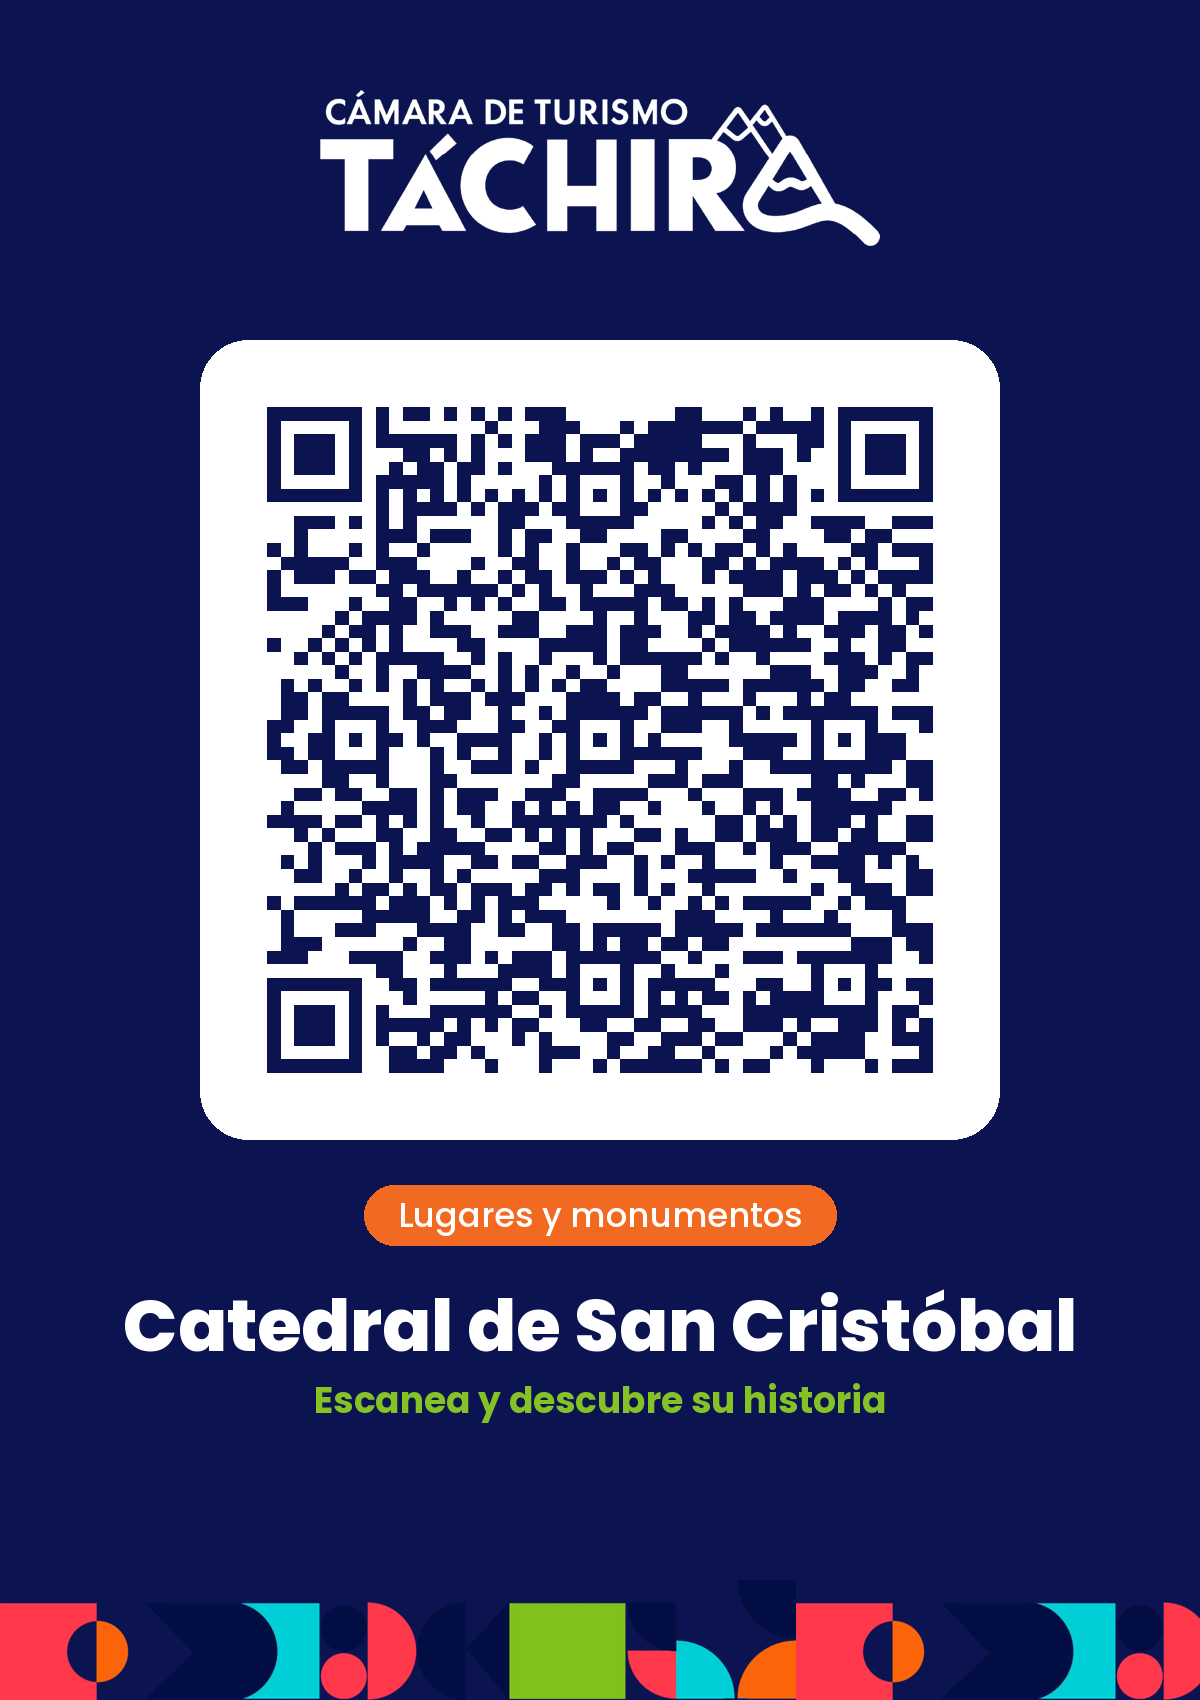
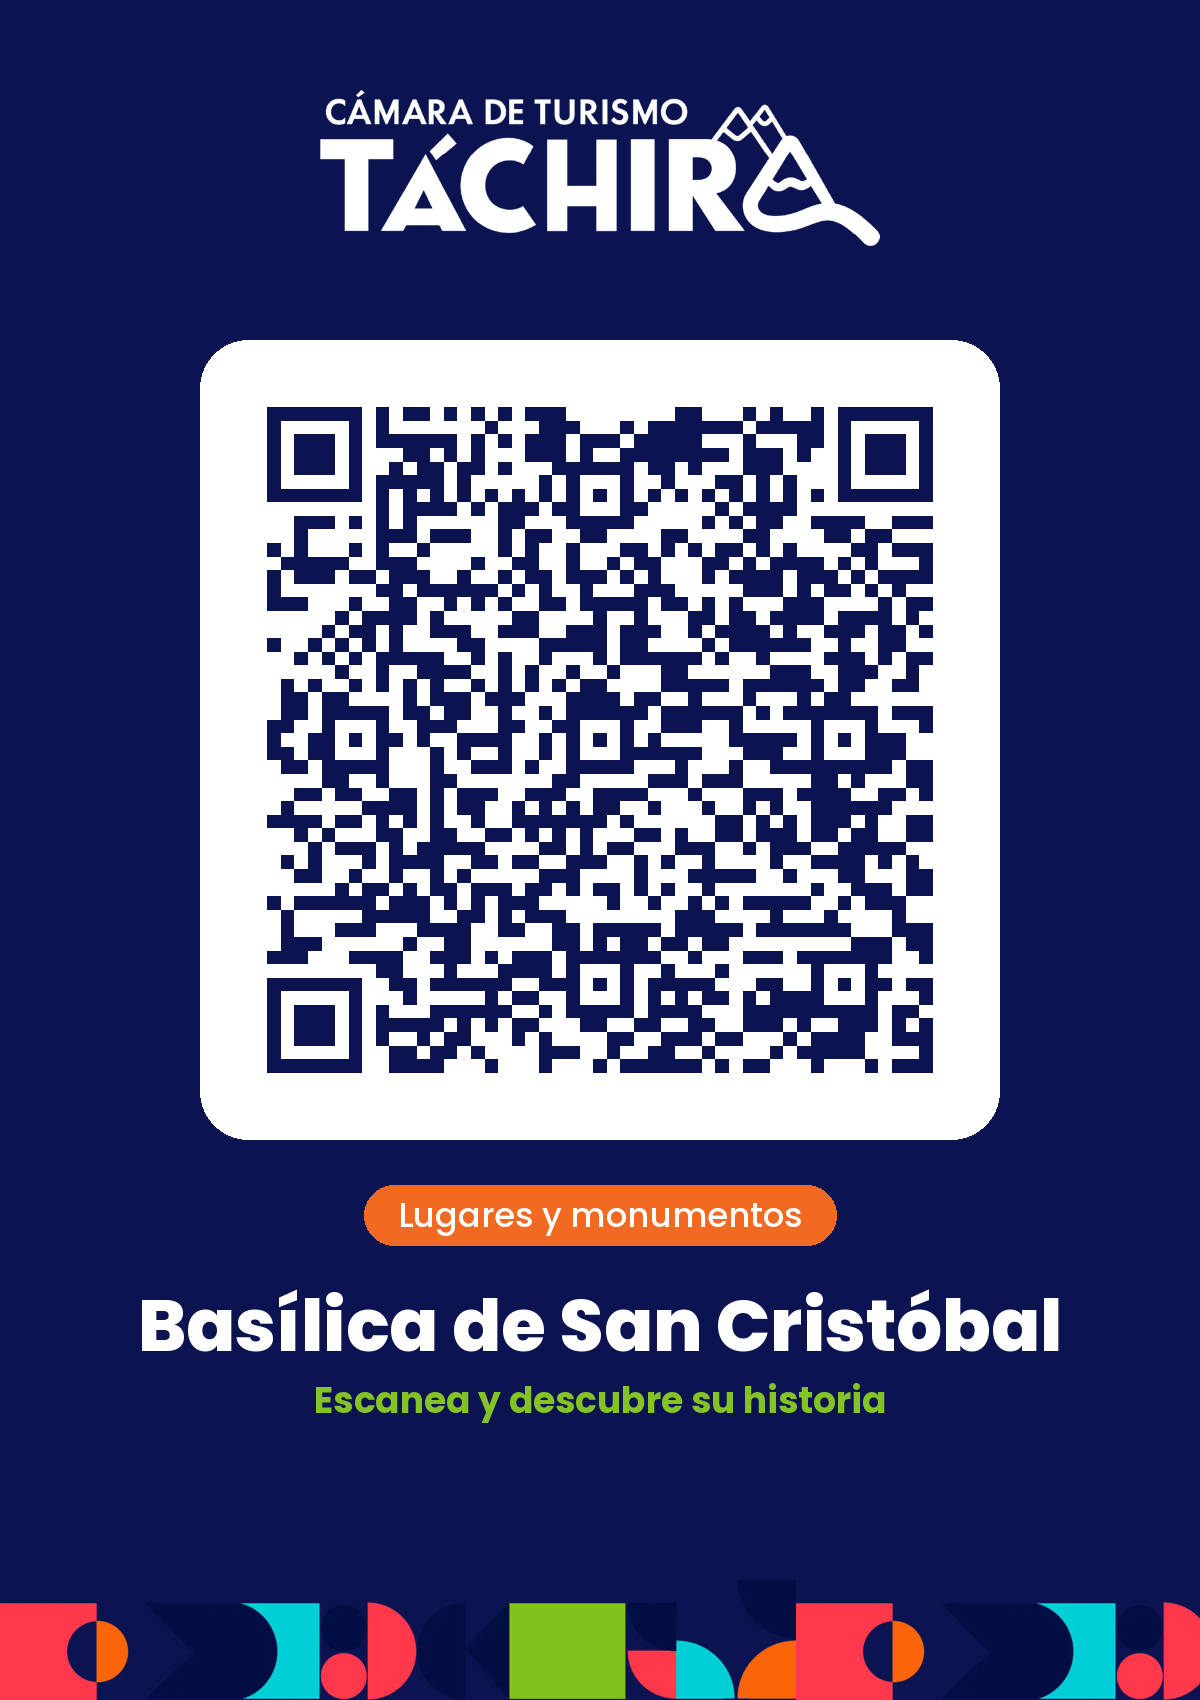
Web: 'Basílica de San Cristóbal'
Claude-Session: https://claude.ai/code/session_014HqcGHeqHPvHkyDg7v5CcL

Changed region(s): [[0.0925, 0.7482, 0.8942, 0.8106]]

diff --git a/basilica-san-cristobal/index.html b/basilica-san-cristobal/index.html
@@ -4,10 +4,10 @@
 <head>
 <meta charset="UTF-8">
 <meta name="viewport" content="width=device-width, initial-scale=1.0">
-<title>Catedral de San Cristóbal · Catálogo Turístico del Estado Táchira</title>
+<title>Basílica de San Cristóbal · Catálogo Turístico del Estado Táchira</title>
 <meta name="description" content="El gran templo de la capital tachirense, frente a la plaza donde nació la ciudad en 1561.">
 <meta name="theme-color" content="#0B1350">
-<meta property="og:title" content="Catedral de San Cristóbal">
+<meta property="og:title" content="Basílica de San Cristóbal">
 <meta property="og:description" content="El gran templo de la capital tachirense, frente a la plaza donde nació la ciudad en 1561.">
 <meta property="og:type" content="article">
 <meta property="og:image" content="../img/catedral-san-cristobal.webp">
@@ -25,11 +25,11 @@
       <a class="solo__logo" href="../" aria-label="Cámara de Turismo Táchira · ir al catálogo"><i></i></a>
       <p class="solo__catalogo">Catálogo Turístico Táchira</p>
       <p class="solo__cat">Lugares y monumentos</p>
-      <h1 class="solo__titulo">Catedral de San Cristóbal</h1>
+      <h1 class="solo__titulo">Basílica de San Cristóbal</h1>
       <p class="solo__lugar">San Cristóbal</p>
       <p class="solo__corto">El gran templo de la capital tachirense, frente a la plaza donde nació la ciudad en 1561.</p>
       <div class="solo__texto">
-        <p>San Cristóbal fue fundada el 31 de marzo de 1561 por el capitán Juan Maldonado. Frente a la plaza que hoy lleva su nombre se levanta su templo mayor, la Catedral de San Cristóbal, corazón religioso de la ciudad.</p>
+        <p>San Cristóbal fue fundada el 31 de marzo de 1561 por el capitán Juan Maldonado. Frente a la plaza que hoy lleva su nombre se levanta su templo mayor, la Basílica de San Cristóbal, corazón religioso de la ciudad.</p>
         <p>Es la sede de la Diócesis de San Cristóbal, creada en 1922. Su fachada blanca, sus torres y su campanario son una de las imágenes más reconocibles del casco histórico.</p>
         <p>En su interior, los vitrales narran capítulos de la historia local: la fundación de la ciudad, el paso de Simón Bolívar por San Cristóbal en 1813 y el traslado de la imagen de Nuestra Señora de la Consolación.</p>
       </div>

diff --git a/js/data.js b/js/data.js
@@ -116,10 +116,10 @@ window.SITIOS = [
   /* ---------- LUGARES Y MONUMENTOS ---------- */
   {
     id: 'basilica-san-cristobal', cat: 'lugares',
-    nombre: 'Catedral de San Cristóbal', lugar: 'San Cristóbal',
+    nombre: 'Basílica de San Cristóbal', lugar: 'San Cristóbal',
     corto: 'El gran templo de la capital tachirense, frente a la plaza donde nació la ciudad en 1561.',
     largo: [
-      'San Cristóbal fue fundada el 31 de marzo de 1561 por el capitán Juan Maldonado. Frente a la plaza que hoy lleva su nombre se levanta su templo mayor, la Catedral de San Cristóbal, corazón religioso de la ciudad.',
+      'San Cristóbal fue fundada el 31 de marzo de 1561 por el capitán Juan Maldonado. Frente a la plaza que hoy lleva su nombre se levanta su templo mayor, la Basílica de San Cristóbal, corazón religioso de la ciudad.',
       'Es la sede de la Diócesis de San Cristóbal, creada en 1922. Su fachada blanca, sus torres y su campanario son una de las imágenes más reconocibles del casco histórico.',
       'En su interior, los vitrales narran capítulos de la historia local: la fundación de la ciudad, el paso de Simón Bolívar por San Cristóbal en 1813 y el traslado de la imagen de Nuestra Señora de la Consolación.'
     ]

diff --git a/herramientas/generar_tarjetas_qr.py b/herramientas/generar_tarjetas_qr.py
@@ -25,7 +25,6 @@ W, H = 1418, 2364
 QR_LADO, QR_Y = 900, 820
 INTER = 1.16                               # interlineado del nombre (evita choque g/ñ)
 NO_SEPARAR = ['de La Grita']
-NOMBRES = {'basilica-san-cristobal': 'Basílica de San Cristóbal'}   # nombre en la tarjeta distinto al de la web
 
 def fuente(peso, tam):
     return ImageFont.truetype(os.path.join(FUENTES, 'Poppins-%s.ttf' % peso), tam)
@@ -86,7 +85,7 @@ def panel_catalogo(destino):
 
 def panel_sitio(sitio, destino):
     im = Image.new('RGB', (W, H), LIME); dr = ImageDraw.Draw(im)
-    nombre = NOMBRES.get(sitio['id'], sitio['nombre'])
+    nombre = sitio['nombre']
     for grupo in NO_SEPARAR:               # grupos que deben quedar en una sola línea
         nombre = nombre.replace(grupo, grupo.replace(' ', '\u00a0'))
     tam = 128
